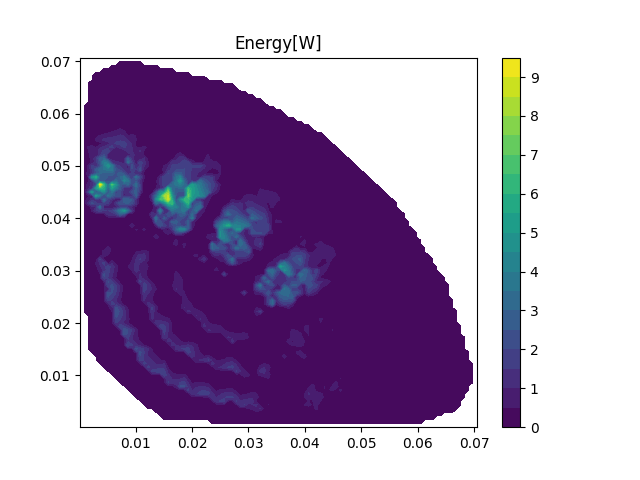
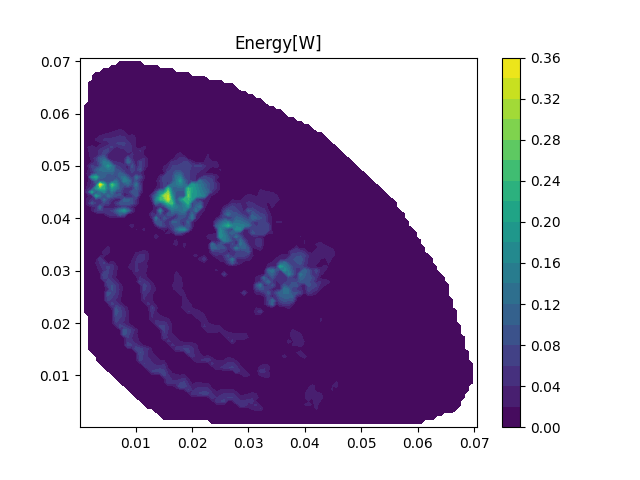
consider depth, update docs

diff --git a/src/utils.py b/src/utils.py
@@ -1,6 +1,6 @@
 import numpy as np
 
-__all__ = ['sum_area', 'calc_centroid', 'gauss_seidel']
+__all__ = ['sum_area', 'calc_centroid', 'gauss_seidel_sor', 'jacobi_iteration']
 
 
 def calc_centroid(vertex_mat: np.ndarray) -> np.ndarray:
@@ -48,9 +48,54 @@ def sum_area(vertex_mat: np.ndarray) -> np.number:
     return np.sum(np.abs(np.linalg.det(vertex_mat_extended))) / 2
 
 
-def gauss_seidel(A, b, x0, tol=1e-6, max_iter=5):
+def gauss_seidel_sor(A, b, x0=None, omega=1, tol=1e-6, max_iter=100, is_print: bool = True):
     """
-    Solve the system of linear equations using the Gauss-Seidel method.
+    Solve the system of linear equations using the Gauss-Seidel method with Successive Over-Relaxation(SOR).
+
+    Parameters:
+        A (numpy.ndarray): Coefficient matrix of shape (n, n).
+        b (numpy.ndarray): Right-hand side vector of shape (n,).
+        x0 (numpy.ndarray): Initial guess for the solution vector of shape (n,).
+        omega (float): Relaxation parameter (0 < omega < 2).
+        tol (float): Tolerance for convergence (default: 1e-4).
+        max_iter (int): Maximum number of iterations (default: 20).
+
+    Returns:
+        numpy.ndarray: Solution vector of shape (n,).
+
+    >>> A = np.array([[4, -1, 0], [-1, 4, -1], [0, -1, 4]])
+    >>> b = np.array([9, 5, 0])
+    >>> np.allclose(gauss_seidel(A, b, max_iter=100,is_print=False), np.linalg.solve(A, b), atol=1e-6)
+    True
+    """
+    n = len(b)
+    if x0 is None:
+        x = np.zeros(n)
+    else:
+        x = x0.copy()
+
+    for i_iter in range(max_iter):
+        x_new = np.copy(x)
+        for i in range(n):
+            sum1 = np.dot(A[i, :i], x_new[:i])
+            sum2 = np.dot(A[i, i + 1 :], x[i + 1 :])
+            x_new[i] = (1 - omega) * x[i] + (omega / A[i, i]) * (b[i] - sum1 - sum2)
+
+        error = np.linalg.norm(x_new - x)
+        if is_print:
+            print(f'\rGauss-Seidel SOL itering: {i_iter+1}/{max_iter} | error:{error}', end='')
+        if error < tol:
+            break
+        x = x_new
+
+    if is_print:
+        print(f'\nNot converge: {error}/{tol}')
+    return x
+
+
+def jacobi_iteration(A, b, x0=None, tol=1e-6, max_iter=100, is_print: bool = True):
+    """
+    Solve the system of linear equations using the Jacobi iteration method.
 
     Parameters:
         A (numpy.ndarray): Coefficient matrix of shape (n, n).
@@ -61,22 +106,31 @@ def gauss_seidel(A, b, x0, tol=1e-6, max_iter=5):
 
     Returns:
         numpy.ndarray: Solution vector of shape (n,).
+
+    >>> A = np.array([[4, -1, 0], [-1, 4, -1], [0, -1, 4]])
+    >>> b = np.array([9, 5, 0])
+    >>> np.allclose(gauss_seidel(A, b, max_iter=100,is_print=False), np.linalg.solve(A, b), atol=1e-6)
+    True
     """
     n = len(b)
-    x = x0.copy()
+    if x0 is None:
+        x = np.zeros(n)
+    else:
+        x = x0.copy()
+    A_diag_mat = np.diagonal(A)
+    T = A - np.diag(A_diag_mat)
 
     for i_iter in range(max_iter):
-        print(f'\rGauss-Seidel itering: {i_iter+1}/{max_iter}', end='')
-        x_new = np.zeros(n)
-
-        for i in range(n):
-            x_new[i] = (b[i] - np.dot(A[i, :i], x_new[:i]) - np.dot(A[i, i + 1 :], x[i + 1 :])) / A[i, i]
-        error = np.linalg.norm(x - x_new)
+        x_new = (b - np.dot(T, x)) / A_diag_mat
+        error = np.linalg.norm(x_new - x)
+        if is_print:
+            print(f'\r Jacobi itering: {i_iter+1}/{max_iter} | error:{error}', end='')
         if error < tol:
-            return x_new
+            break
+        x = x_new
 
-        x = x_new.copy()
-    print(f'\nNot converge: {error}/{tol}')
+    if is_print:
+        print(f'\nNot converge: {error}/{tol}')
     return x
 
 

diff --git a/src/solver.py b/src/solver.py
@@ -2,7 +2,7 @@ import numpy as np
 
 from logger import log
 from material import Material_In_Use
-from utils import gauss_seidel
+from utils import gauss_seidel_sor, jacobi_iteration
 
 __all__ = ['solve_magnetostatic']
 
@@ -16,6 +16,7 @@ def solve_magnetostatic(
     material_in_use_dict: dict,
     boundary_dict: dict,
     solve_method: int = 0,
+    depth: float = 0.005,
 ):
     n_vert = len(vertInfoMat)
     n_trig = len(trigInfoMat)
@@ -90,7 +91,7 @@ def solve_magnetostatic(
             reluctivity = material_in_use.get_reluctivity(material_name, B=current_B_norm)
 
             # calculate Energy
-            Energy_mat[i_trig] = current_B_norm**2 * delta * reluctivity / 2
+            Energy_mat[i_trig] = current_B_norm**2 * delta * depth * reluctivity / 2
 
             ## current
             if material_type == 'copper':
@@ -157,15 +158,19 @@ def solve_magnetostatic(
                     S_mat[vertex_ids_1] = matrix
 
         ### Solve A_mat: magnetic vector potential
-        # 0 LU decomposition/Gaussian Elimination
+        # 0 LU/Cholesky decomposition
         # 1 Gauss-Seidel Iteration
+        # 2 Jacobi Iteration
         match solve_method:
             case 0:
                 # A_mat = np.linalg.solve(S_mat, T_mat)
                 # A_mat = np.linalg.tensorsolve(S_mat, T_mat)
                 A_mat = np.linalg.inv(S_mat).dot(T_mat)
+            case 1:
+                omega = 0.5
+                A_mat = gauss_seidel_sor(S_mat, T_mat, A_mat, omega)
             case _:
-                A_mat = gauss_seidel(S_mat, T_mat, A_mat)
+                A_mat = jacobi_iteration(S_mat, T_mat, A_mat)
 
         log(f'Iteration: {i_iter+1}/{max_num_iter}', 'INFO')
     return S_mat, A_mat, T_mat, B_mat, B_norm_mat, Energy_mat

diff --git a/src/test_synrm.py b/src/test_synrm.py
@@ -14,12 +14,15 @@ root_path = re.search(r'.*(EM-FEM)', script_path).group(0)
 data_path = os.path.join(root_path, 'data')
 
 ## Read Mesh
-if 1:
+if 0:
     mesh_path = os.path.join(data_path, 'extraFine', 'synrm_extrafine.nas')
-    solve_method = 1  # 1 iteration method
+    solve_method = 0
+    # 0 classical method
+    # 1 gauss_seidel iteration
+    # 2 jacobi iteration
 else:
     mesh_path = os.path.join(data_path, 'coarse', 'synrm_coarse.nas')
-    solve_method = 0  # 0 classical method
+    solve_method = 0
 
 trigInfoMat, trigGroupMat, vertInfoMat, group_list, boundary_dict, material_in_use_dict = read_nastran(
     mesh_path=mesh_path
@@ -56,6 +59,7 @@ S_mat, A_mat, T_mat, B_mat, B_norm_mat, Energy_mat = solve_magnetostatic(
     boundary_dict=boundary_dict,
     material_in_use_dict=material_in_use_dict,
     solve_method=solve_method,
+    depth=0.0375,
 )
 
 ### Post Process

diff --git a/src/test_lipo.py b/src/test_lipo.py
@@ -25,6 +25,7 @@ else:
     (trigInfoMat, trigGroupMat, vertInfoMat, group_list, boundary_dict, material_in_use_dict) = read_gmsh(
         mesh_path=mesh_path
     )
+solve_method = 0
 
 ## current -> current density
 group_current_dict = {
@@ -48,6 +49,8 @@ S_mat, A_mat, T_mat, B_mat, B_norm_mat, Energy_mat = solve_magnetostatic(
     group_current_density_list=group_current_density_list,
     boundary_dict=boundary_dict,
     material_in_use_dict=material_in_use_dict,
+    depth=1,
+    solve_method=solve_method,
 )
 
 ### Post Process

diff --git a/docs/test_synrm.md b/docs/test_synrm.md
@@ -3,23 +3,26 @@ Refer to [test_synrm.py](../src/test_synrm.py)
 
 <img src='./test_synrm/synrm_model.png' width=50%>
 
+The  SYnRM model is shown above and its stack length is 0.0375m.
+
 [Test case of inductor](./test_lipo.md) has proven the accuracy and extensibility of my code, my code can be applied to the model of SynRM with coarse and extra fine mesh, while only modifying mesh and current excitation.
 
-For large-scale systems of linear equations, it may be difficult for classical methods like gaussian elimination and LU decomposition to solve.
+For large-scale systems of linear equations, it may be difficult for direct solving methods to solve.
 Iteration methods like gauss-seidel method are developed to get an approximate solution.
 
-As table is shown below, for extra fine mesh of SynRM in this case, the system of equations of is too large to solve with classical method, gauss-seidel method is used.
+As table is shown below, for extra fine mesh of SynRM in this case, the system of equations of is too large to solve with direct solving method, gauss-seidel method is used.
 
 | | Coarse Mesh | Extra Fine Mesh |
 |--|--|--|
 | Total Flux(Wb/m) | 0.712218 | --  |
-| Total Energy(W) | 1121.6359 | --  |
+| Total Energy(J) | 42.06134 | --  |
 | Num. of Vertex | 5540 | 85912  |
 
 To be honest, the FEA of extra fine mesh still can not converge very well(only tried with limited iterations).
-We can improve this in two ways:
+We can improve this in several ways:
 1. Try other advanced methods like successive over relaxation(SOR) iteration and conjugate gradient method.
 2. Rewrite the solver component with high performance programming language(C++ or Rust).
+3. Assign proper initial value with interpolation functions to accelerate convergence.
 
 Work is still ongoing.
 

diff --git a/docs/test_lipo.md b/docs/test_lipo.md
@@ -1,7 +1,13 @@
 # Test Case: Simple Iron-cored Inductor with an Air Gap
 Refer to [test_lipo.py](../src/test_lipo.py)
 
-<img src='./test_lipo/inductor_model.jpg' width=50%>
+
+<table>
+    <tr>
+      <th><img src='./test_lipo/inductor_model_lipo.jpg' height=300pt><br/>Mesh in Lipo's book.</th>
+      <th><img src='./test_lipo/inductor_model_gmsh.png' height=300pt><br/>Mesh in Gmsh</th>
+    </tr>
+</table>
 
 Starting from a simple iron-cored inductor with an air gap discussed in *[Introduction to AC machine design]((https://onlinelibrary.wiley.com/doi/book/10.1002/9781119352181))*, T. A. Lipo provides example code in the appendix. (Refer to [Lipo.m](./test_lipo/Lipo.m))
 
@@ -22,13 +28,13 @@ Then I compared the FEA results of Lipo's code and my code with the same mesh(Li
 | | Lipo's Code | Lipo's Mesh + My code | Gmsh Mesh + My code |
 |--|--|--|--|
 | Total Flux(Wb/m) | 0.0149 | 0.014908  | 0.014290 |
-| Total Energy(W) | 28.1353 | 28.1353  | 27.0102 |
+| Total Energy(J) | 28.1353 | 28.1353  | 27.0102 |
 | Num. of Vertex | 1428 | 1428  | 6466 |
 
 <table>
     <tr>
       <th><img src='./test_lipo/A-lipo.jpg' height=300pt><br/>Magnetic vector potential plot of Lipo's Code</th>
-      <th><img src='./test_lipo/A-py-coutour.png' height=300pt><br/>Magnetic vector potential plot of my Code</th>
+      <th><img src='./test_lipo/A-py-coutour-coarse.png' height=300pt><br/>Magnetic vector potential plot of my Code</th>
     </tr>
 </table>
 

diff --git a/docs/index.md b/docs/index.md
@@ -35,7 +35,9 @@ The reluctivity matrix $[S]$ is calculated with reluctivity and the geometric ch
 The current matrix $[T]$ is obtained by simply taking 1/3 the sum of the currents passing through the triangles.
 More details can be found in *chapter 10, [Introduction to AC machine design]((https://onlinelibrary.wiley.com/doi/book/10.1002/9781119352181))*.
 
-The magnetic vector potential matrix $[A]$ can be solved by gaussian elimination(more precise but slower) and gauss-seidel iteration(large quantity of equations).
+The magnetic vector potential matrix $[A]$ can be solved by direct method(more precise but slower) and gauss-seidel iteration(large quantity of equations).
+
+The NumPy package in Python offers a direct solving method for linear equations. To understand how it works, we can trace down its implementation. NumPy utilizes LAPACK (Linear Algebra Package), which is written in Fortran, to solve linear equations using LU decomposition(Cholesky decomposition for positive definite matrix), forward substitution, and backward substitution.
 
 Besides, nonlinear material can provide different reluctivity at each epoch. After a certain number of iterations, $[A]$ will eventually converge below the required error.
 

diff --git a/README.MD b/README.MD
@@ -47,9 +47,15 @@ pre-commit install .
 
 ## TODO
 - rewrite solver with high performance programming language(C++ or Rust).
+- Assign proper initial value with interpolation functions to accelerate convergence.
 - time step simulation & external circuit excitation
 - PM materials
 - parametric modelling of several classical electric machines
+- post processing like loss calculation(Steinmetz model), torque(Maxwell stress tensor method)
+    - loss calculation methods
+        - calculate with maximum flux density(quick but coarse)
+        - calculate with the amplitude of each harmonic flux density(more precise)
 
 ## Ref
 - [T. A. Lipo, Introduction to AC machine design. in IEEE Press series on power engineering. Hoboken, New Jersey: IEEE Press/Wiley, 2017.](https://onlinelibrary.wiley.com/doi/book/10.1002/9781119352181)
+- [Gitbook Numerical Analysis Implementations in Python](https://laus-organization.gitbook.io/numerical-analysis-implementations-in-python/)
